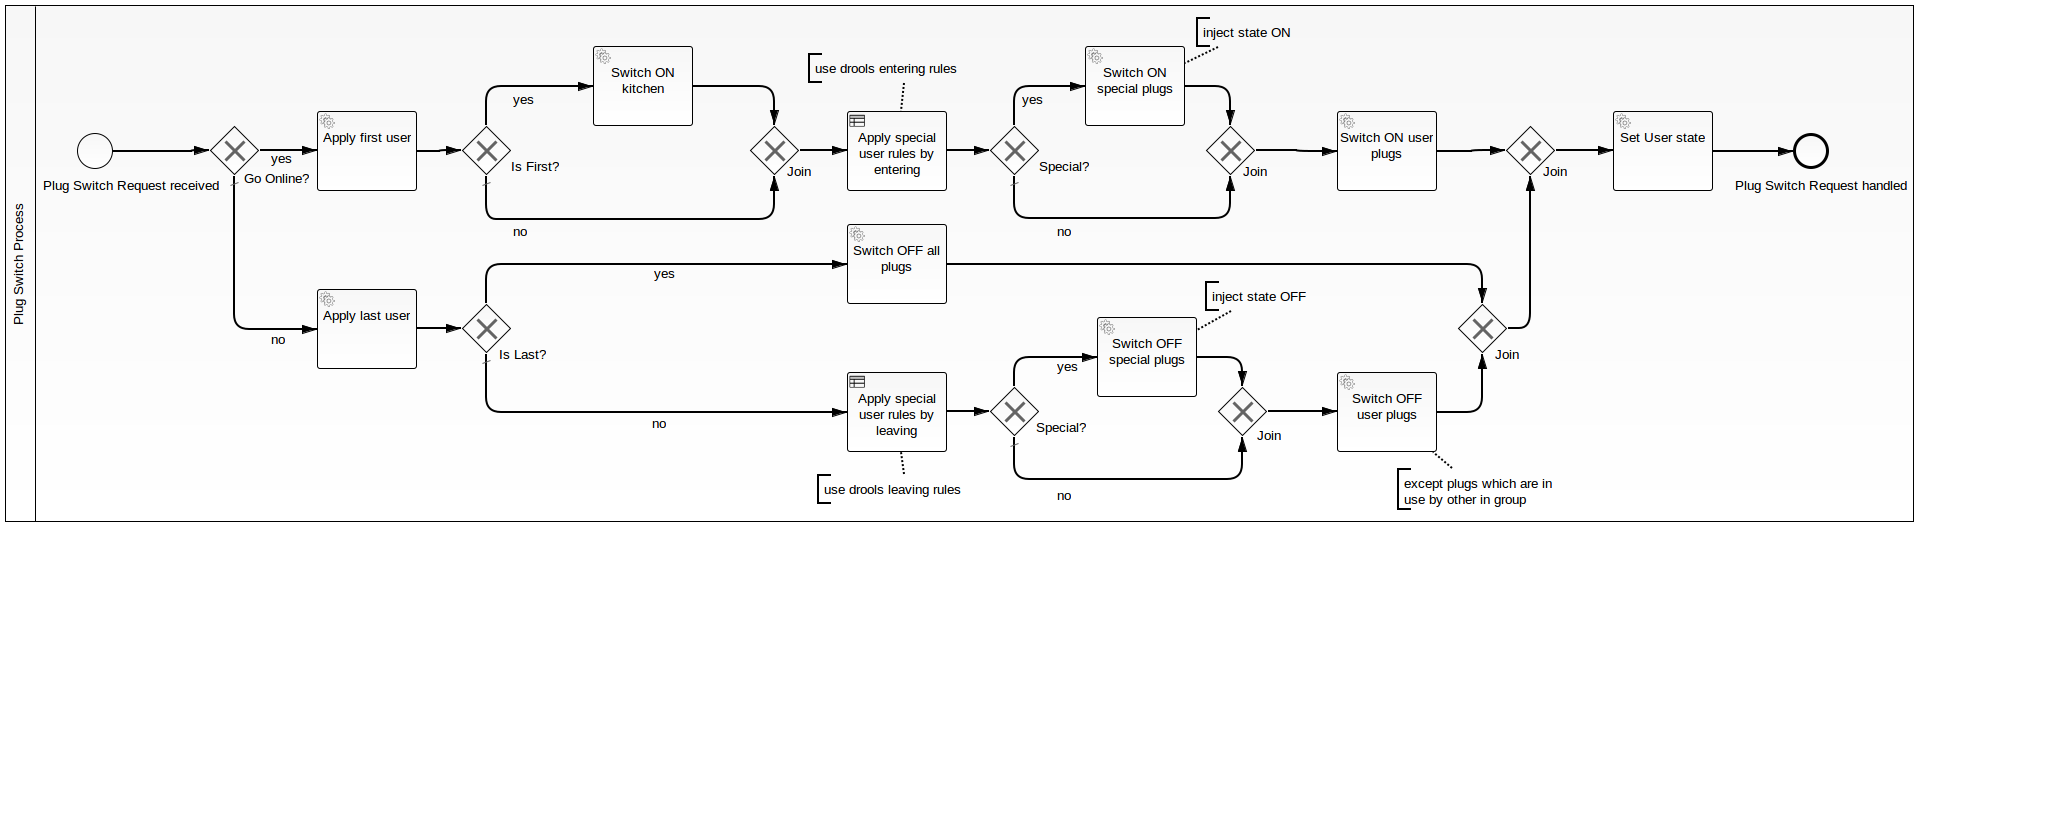
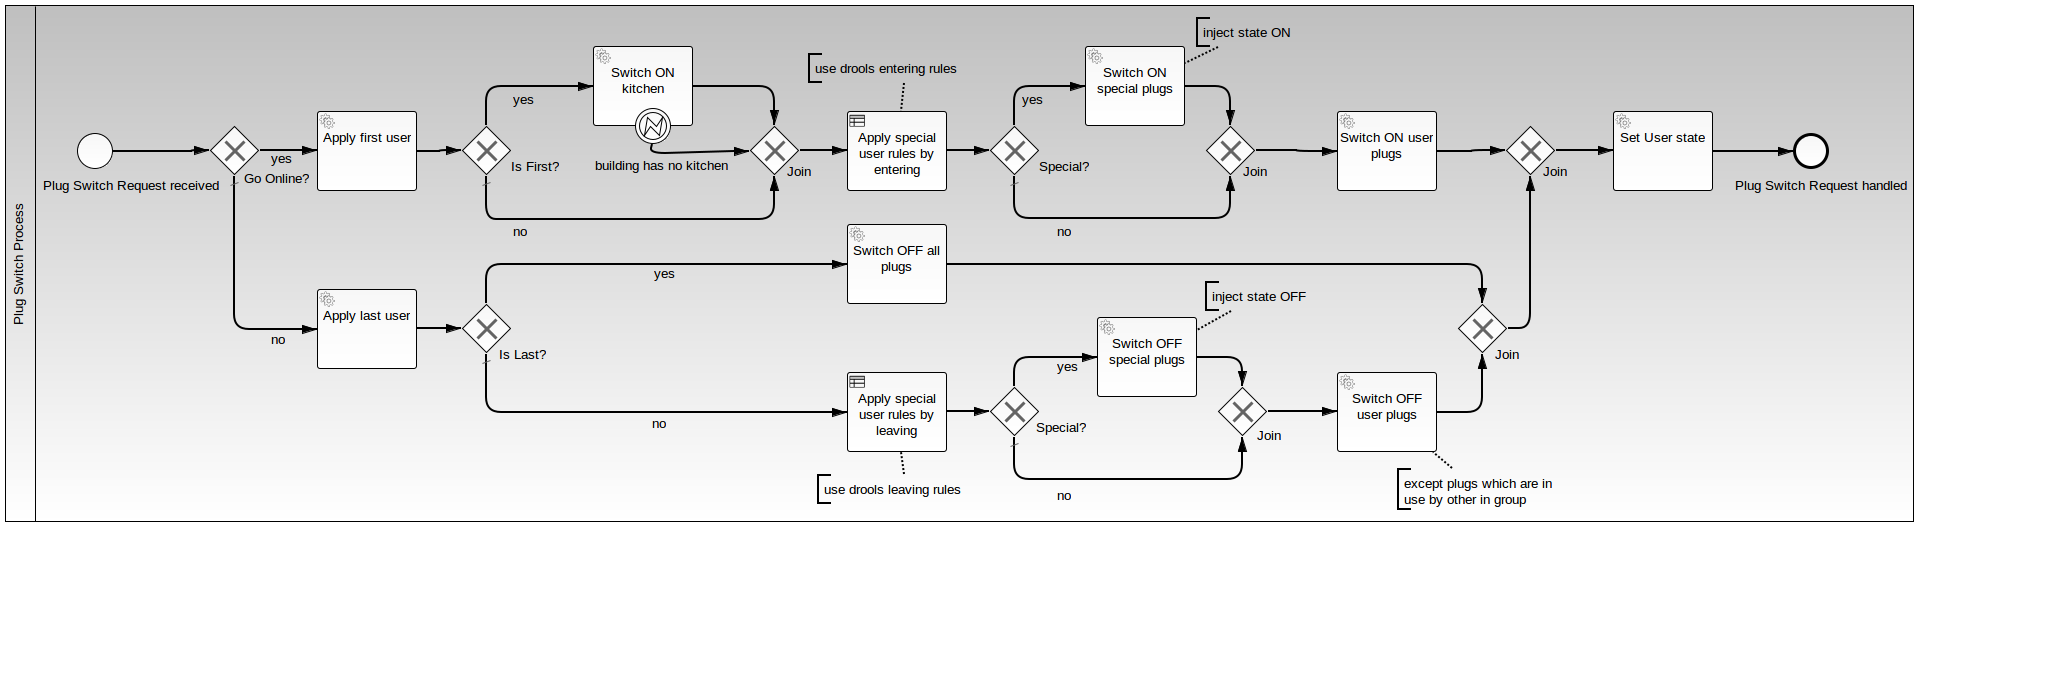
avoid exceptions during processing

diff --git a/rest-camunda/src/main/java/com/opitz/iotprototype/delegates/SwitchKitchenDelegate.java b/rest-camunda/src/main/java/com/opitz/iotprototype/delegates/SwitchKitchenDelegate.java
@@ -2,6 +2,7 @@ package com.opitz.iotprototype.delegates;
 
 import java.util.Set;
 
+import org.camunda.bpm.engine.delegate.BpmnError;
 import org.camunda.bpm.engine.delegate.DelegateExecution;
 import org.camunda.bpm.engine.delegate.JavaDelegate;
 import org.springframework.beans.factory.annotation.Autowired;
@@ -29,15 +30,22 @@ public class SwitchKitchenDelegate implements JavaDelegate {
 	@Override
 	public void execute(DelegateExecution execution) throws Exception {
 
-		System.out.println("## camunda: switch on the kitchen ##");
+		System.out.println("## camunda: switch ON the kitchen ##");
 
 		// find kitchen plugs
 		DeviceGroup deviceGroup = deviceGroupService.findByLabel("kitchen");
-		System.out.println("## camunda: deviceGroup 'kitchen' requested - found '"
-		    + deviceGroup.getLabel() + "' ##");
+		if (deviceGroup == null) {
+			System.out
+			    .println("## camunda: Building has no 'kitchen'. Processing continues with an error event. ##");
+			// throw bpmn error event
+			throw new BpmnError("Building has no kitchen");
+		}
 
+		System.out.println("## camunda: deviceGroup '" + deviceGroup.getLabel()
+		    + "' found ##");
 		// switch on kitchen plugs
 		this.switchOnPlugs(deviceGroup.getElroPowerPlugs());
+
 	}
 
 	private void switchOnPlugs(final Set<ElroPowerPlug> elroPowerPlugs) {

diff --git a/rest-camunda/src/main/java/com/opitz/iotprototype/delegates/SwitchSpecialPlugDelegate.java b/rest-camunda/src/main/java/com/opitz/iotprototype/delegates/SwitchSpecialPlugDelegate.java
@@ -51,14 +51,22 @@ public class SwitchSpecialPlugDelegate implements JavaDelegate {
 		Set<ElroPowerPlug> allPlugs = new HashSet<>();
 		for (String label : deviceGroupLabels) {
 			DeviceGroup deviceGroup = deviceGroupService.findByLabel(label);
-			System.out.println("## camunda: deviceGroup '" + label
-			    + "' requested - found '" + deviceGroup.getLabel() + "' ##");
-			allPlugs.addAll(deviceGroup.getElroPowerPlugs());
+
+			if (deviceGroup != null) {
+				System.out.println("## camunda: special deviceGroup '"
+				    + deviceGroup.getLabel() + "' found ##");
+				allPlugs.addAll(deviceGroup.getElroPowerPlugs());
+			} else {
+				System.out.println("## camunda: special deviceGroup '" + label
+				    + "' not found. Processing continues ##");
+			}
+
 		}
 
 		// switch special plugs
 		System.out.println("## camunda: " + allPlugs.size()
-		    + " ElroPowerPlugs found to switch " + state + " ##");
+		    + " ElroPowerPlugs in special deviceGroups found to switch to '"
+		    + state + "' ##");
 		this.switchPlugs(allPlugs, state);
 	}
 

diff --git a/rest-camunda/src/main/java/com/opitz/iotprototype/delegates/ApplyEnteringRulesDelegate.java b/rest-camunda/src/main/java/com/opitz/iotprototype/delegates/ApplyEnteringRulesDelegate.java
@@ -57,10 +57,14 @@ public class ApplyEnteringRulesDelegate implements JavaDelegate {
 			    .filterFacts(workingMemory, HashSet.class);
 
 			// drools return a single object, so only first array element is
-			// processed
-			@SuppressWarnings("unchecked")
-			HashSet<String> specials = (HashSet<String>) result.toArray()[0];
-			execution.setVariable("specials", specials);
+			// processed as a Set
+			if (result.isEmpty()) {
+				execution.setVariable("specials", new HashSet<String>());
+			} else {
+				@SuppressWarnings("unchecked")
+				HashSet<String> specials = (HashSet<String>) result.toArray()[0];
+				execution.setVariable("specials", specials);
+			}
 		} finally {
 			workingMemory.dispose();
 		}

diff --git a/rest-camunda/src/main/java/com/opitz/iotprototype/delegates/ApplyLeavingRulesDelegate.java b/rest-camunda/src/main/java/com/opitz/iotprototype/delegates/ApplyLeavingRulesDelegate.java
@@ -58,10 +58,14 @@ public class ApplyLeavingRulesDelegate implements JavaDelegate {
 			    .filterFacts(workingMemory, HashSet.class);
 
 			// drools return a single object, so only first array element is
-			// processed
-			@SuppressWarnings("unchecked")
-			HashSet<String> specials = (HashSet<String>) result.toArray()[0];
-			execution.setVariable("specials", specials);
+			// processed as a Set
+			if (result.isEmpty()) {
+				execution.setVariable("specials", new HashSet<String>());
+			} else {
+				@SuppressWarnings("unchecked")
+				HashSet<String> specials = (HashSet<String>) result.toArray()[0];
+				execution.setVariable("specials", specials);
+			}
 		} finally {
 			workingMemory.dispose();
 		}

diff --git a/rest-camunda/src/main/java/com/opitz/iotprototype/delegates/SetUserStateDelegate.java b/rest-camunda/src/main/java/com/opitz/iotprototype/delegates/SetUserStateDelegate.java
@@ -21,11 +21,15 @@ public class SetUserStateDelegate implements JavaDelegate {
 		String username = (String) execution.getVariable("username");
 		User user = userService.load(username);
 
-		String state = (String) execution.getVariable("state");
-		user.setState(UserState.valueOf(state.toUpperCase()));
-		userService.save(user);
+		if (user != null) {
+			String state = (String) execution.getVariable("state");
+			user.setState(UserState.valueOf(state.toUpperCase()));
+			userService.save(user);
 
-		System.out.println("## camunda: user state saved ##");
+			System.out.println("## camunda: user state saved ##");
+		} else {
+			System.out.println("## camunda: unknown user ##");
+		}
 
 	}
 

diff --git a/rest-camunda/src/main/java/com/opitz/iotprototype/delegates/SwitchOffPlugDelegate.java b/rest-camunda/src/main/java/com/opitz/iotprototype/delegates/SwitchOffPlugDelegate.java
@@ -40,7 +40,7 @@ public class SwitchOffPlugDelegate implements JavaDelegate {
 	@Override
 	public void execute(DelegateExecution execution) throws Exception {
 
-		System.out.println("## camunda: switch off the grouped plugs ##");
+		System.out.println("## camunda: switch OFF the assigned plugs ##");
 
 		String username = (String) execution.getVariable("username");
 
@@ -59,7 +59,7 @@ public class SwitchOffPlugDelegate implements JavaDelegate {
 
 		// switch off users plugs
 		System.out.println("## camunda: " + allPlugs.size()
-		    + " ElroPowerPlugs found to switch OFF ##");
+		    + " assigned ElroPowerPlugs found to switch OFF ##");
 		this.switchOffPlugs(allPlugs);
 	}
 

diff --git a/rest-camunda/src/main/java/com/opitz/iotprototype/delegates/SwitchOnPlugDelegate.java b/rest-camunda/src/main/java/com/opitz/iotprototype/delegates/SwitchOnPlugDelegate.java
@@ -35,7 +35,7 @@ public class SwitchOnPlugDelegate implements JavaDelegate {
 	@Override
 	public void execute(DelegateExecution execution) throws Exception {
 
-		System.out.println("## camunda: switch on the grouped plugs ##");
+		System.out.println("## camunda: switch ON the assigned plugs ##");
 
 		String username = (String) execution.getVariable("username");
 
@@ -53,7 +53,7 @@ public class SwitchOnPlugDelegate implements JavaDelegate {
 
 		// switch on users plugs
 		System.out.println("## camunda: " + allPlugs.size()
-		    + " ElroPowerPlugs found to switch ON ##");
+		    + " assigned ElroPowerPlugs found to switch ON ##");
 		this.switchOnPlugs(allPlugs);
 	}
 

diff --git a/rest-camunda/src/main/java/com/opitz/iotprototype/delegates/SwitchOffAllPlugDelegate.java b/rest-camunda/src/main/java/com/opitz/iotprototype/delegates/SwitchOffAllPlugDelegate.java
@@ -24,12 +24,12 @@ public class SwitchOffAllPlugDelegate implements JavaDelegate {
 	@Override
 	public void execute(DelegateExecution execution) throws Exception {
 
-		System.out.println("## camunda: switch off ALL the plugs ##");
+		System.out.println("## camunda: switch OFF all plugs ##");
 
 		// find all plugs
 		List<ElroPowerPlug> elroPowerPlugs = elroPowerPlugService.listAll();
 		System.out.println("## camunda: " + elroPowerPlugs.size()
-		    + " plugs found to switch OFF ##");
+		    + " plugs total exist to switch OFF ##");
 
 		// switch off all plugs
 		this.switchOffPlugs(elroPowerPlugs);
